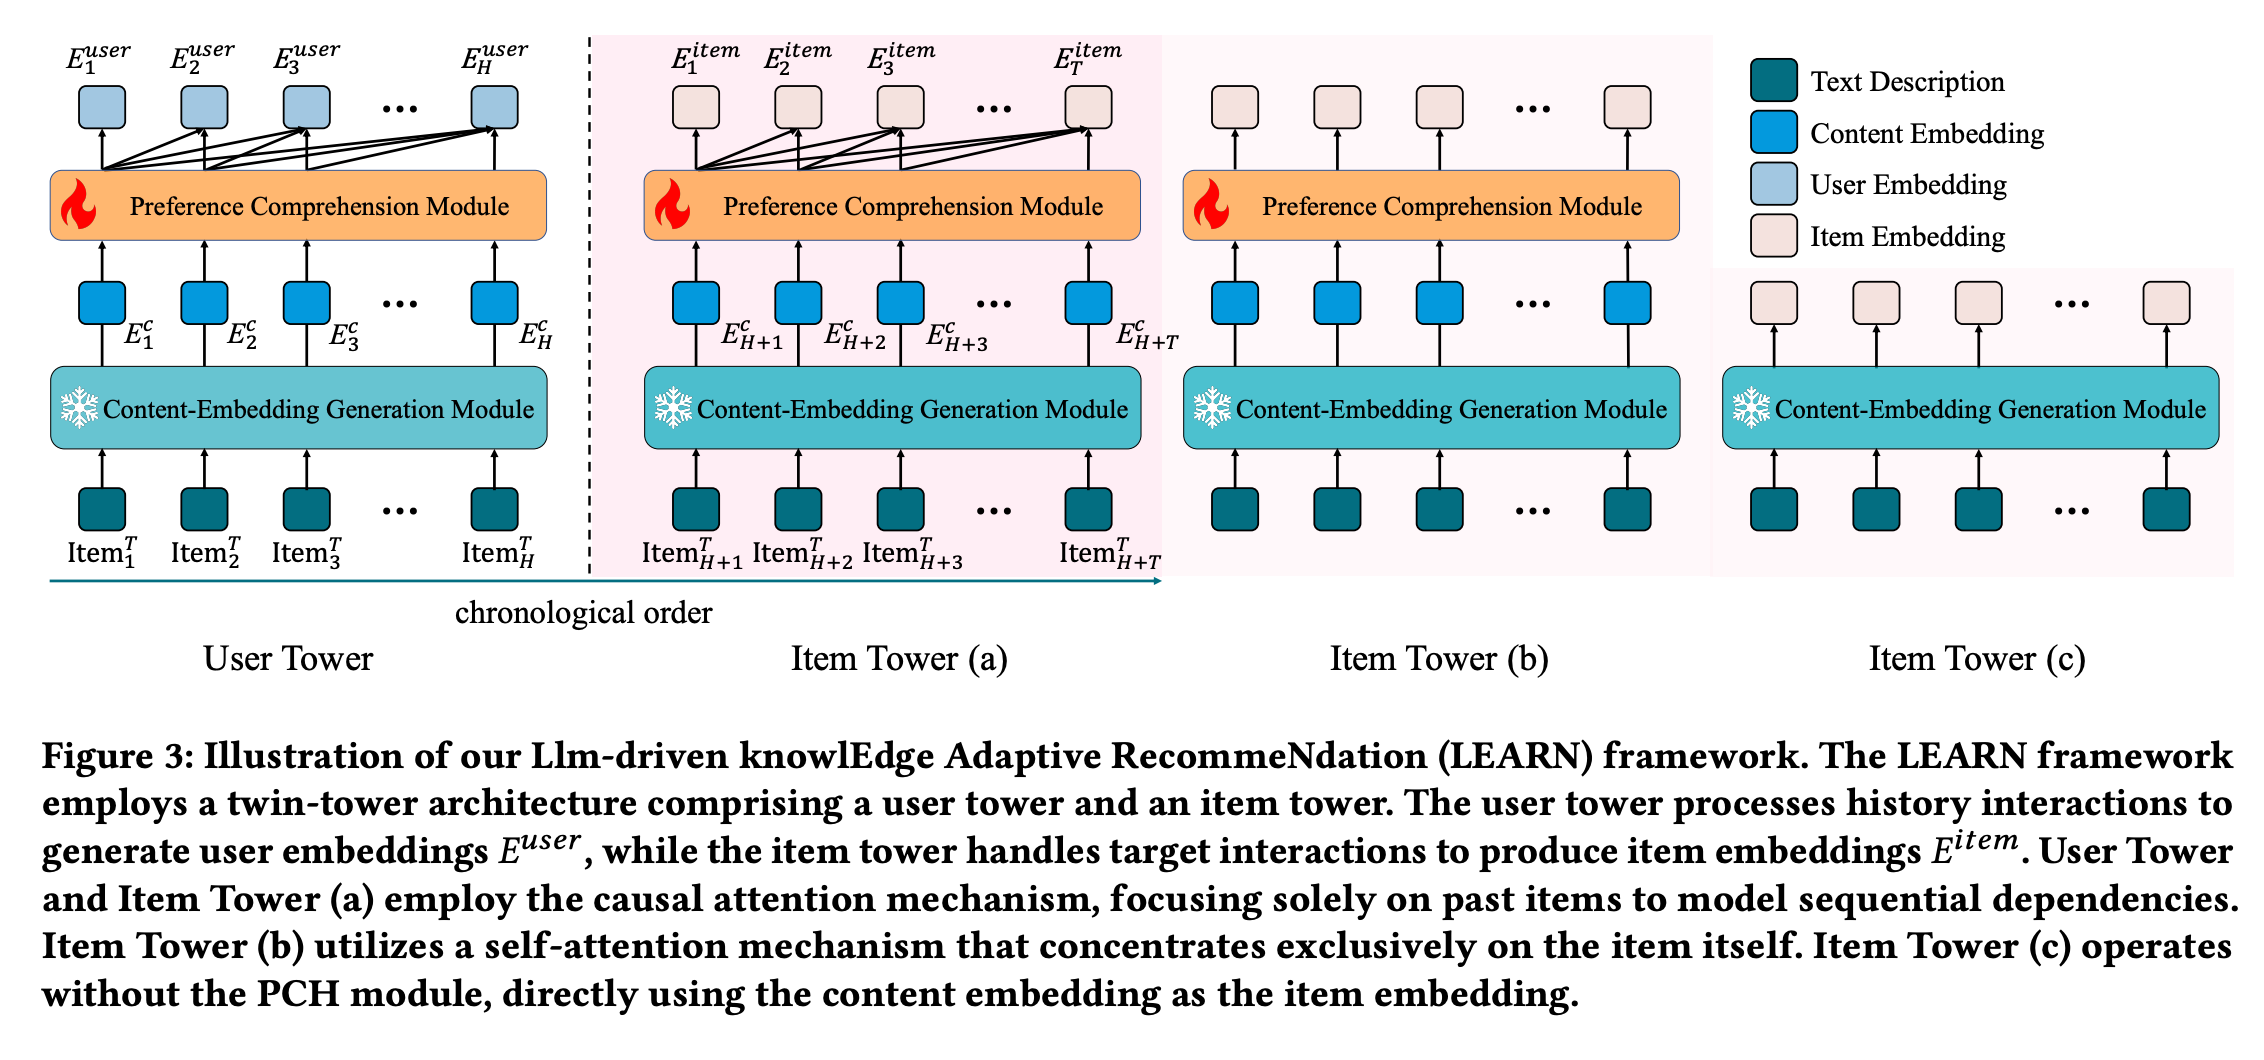
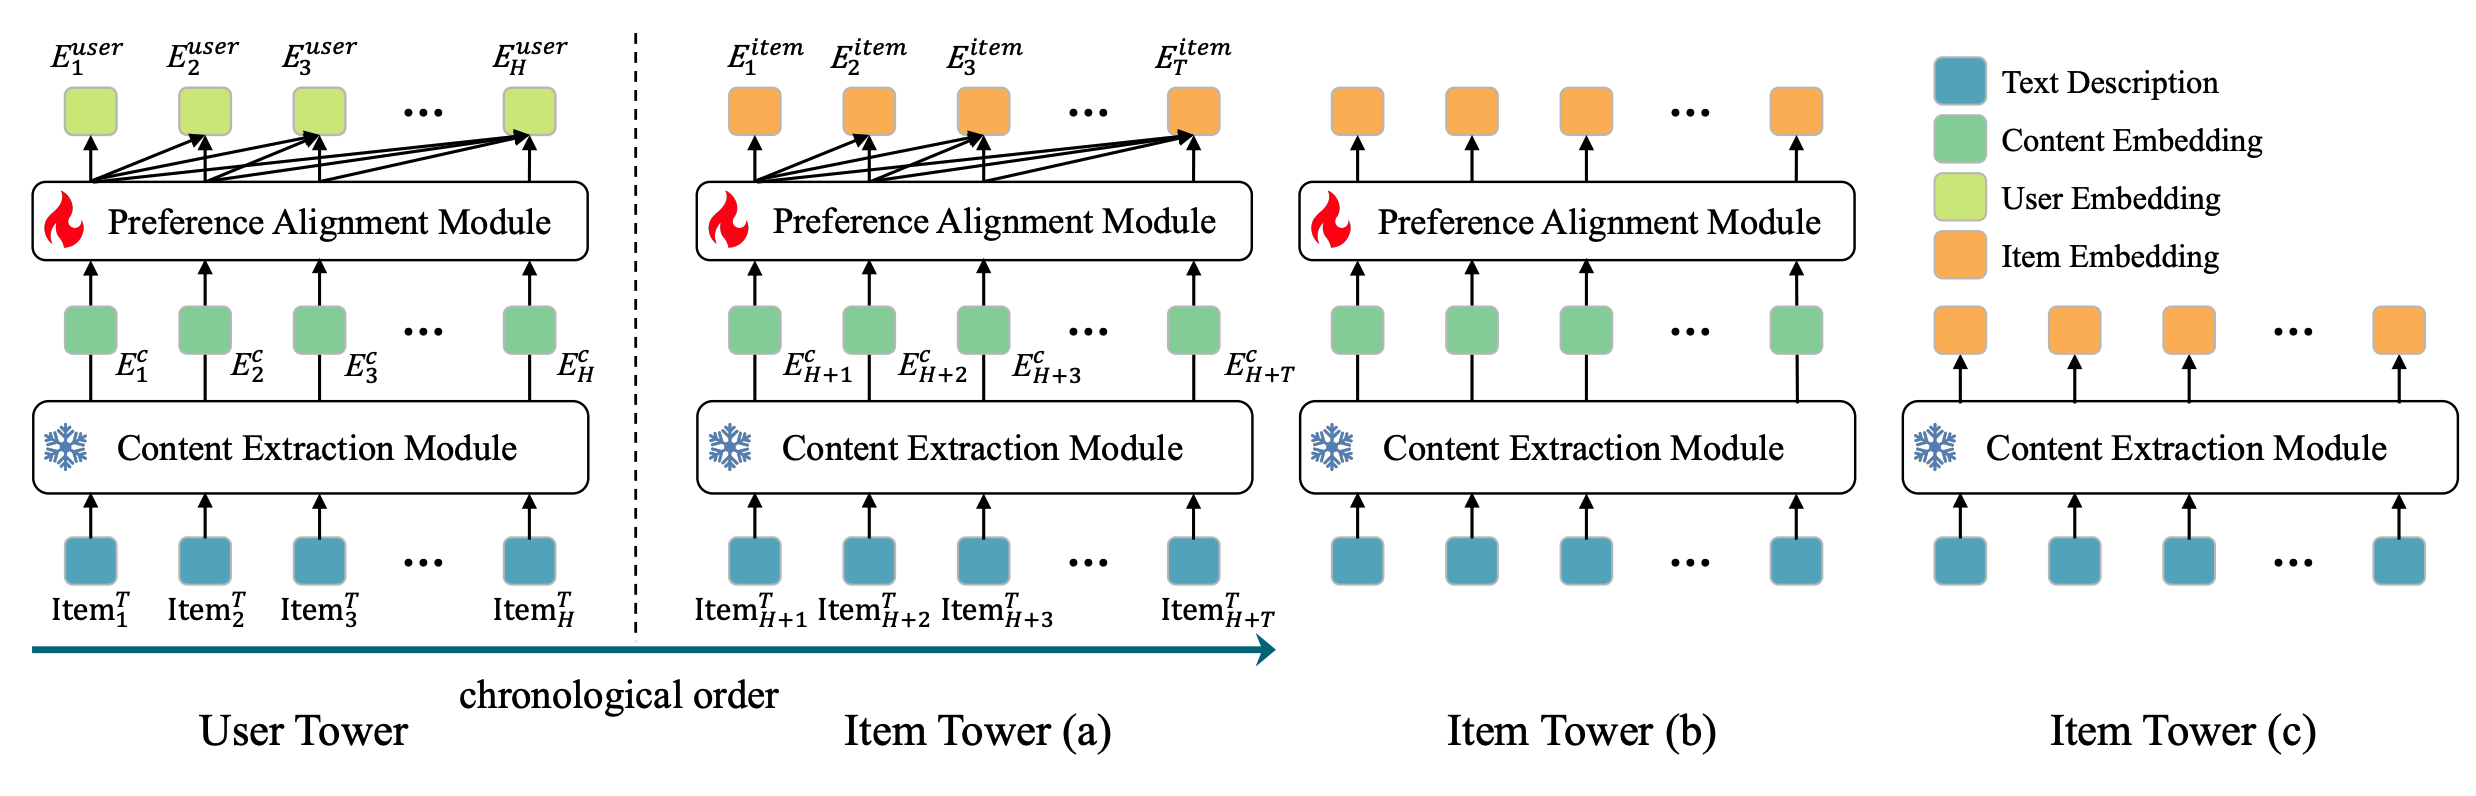
x

diff --git a/posts/1.7.llm_recommend.md b/posts/1.7.llm_recommend.md
@@ -893,12 +893,32 @@ word版的笔记：[https://github.com/daiwk/collections/blob/master/assets/mult
 
 ![rec2llm-llm2rec](../assets/rec2llm-llm2rec.png)
 
-本文提出了LEARN(Llm-driven knowlEdge Adaptive RecommeNdation)，实现了LLM-to-Rec，让LLM作为content extractor，推荐任务是训练目标
+本文提出了LEARN(Llm-driven knowlEdge Adaptive RecommeNdation)，实现了LLM-to-Rec，让LLM作为content extractor，推荐任务是训练目标。
+
+![learn-cex-pal](../assets/learn-cex-pal.png)
+
++ Content EXtraction(CEX)：输入item描述，过预训练的LLM（参数freeze）得到的每个token的输出pooling得到item的emb $$E^c$$
++ Preference ALignment(PAL)：把$$H$$个$$E^c$$输入一个content adapter(就是一个MLP)，然后过12层的可训练的transformer得到$$H$$个输出emb，最后再过一个online projection(也是一个MLP)降维到64，得到$$E^{user}$$
 
 ![learn](../assets/learn.png)
 
-![learn-ceg-pch](../assets/learn-ceg-pch.png)
+假设用户点击了H+T个item，拆成1~H和H+1~H+T这两部分，
 
++ user tower：1~H的item输入CEX+PAL，得到H个输出
++ item tower：有3个，结构都是输入H+1~H+T的item，网络参数和user tower共享；infer时只输入一个item
+    + item tower a：经过CEX得到$$E^c$$，再经过PAL得到$$E^{item}$$，和user tower一样用causal attention
+    + item tower b：经过CEX得到$$E^c$$，再经过PAL得到$$E^{item}$$，使用self-attention，每个item只关注自己
+    + item tower c：只经过CEX，直接得到$$E^{item}$$
+
+消融后发现item tower a效果最好，所以用了a
+
+loss用的是pinnerformer的dense all action loss（[PinnerFormer: Sequence Modeling for User Representation at Pinterest](https://arxiv.org/pdf/2205.04507)），即从1~H里随机挑m个出来，每一个去预估H+1~H+T里的随机一个正样本
+
+![](../assets/pinnerformer-loss.png)
+
+在线使用时如下图，其中user emb和item emb就是两个tower的输出，会先concat并过个小fusion module得到fusion emb，然后一方面过个mlp算个cvr loss，另一方面和user emb、item emb还有其他特征concat再送给后面的模块正常算ranking loss
+
+![](../assets/learn-adaptor.png)
 
 ## ACL2024的recgpt
 
